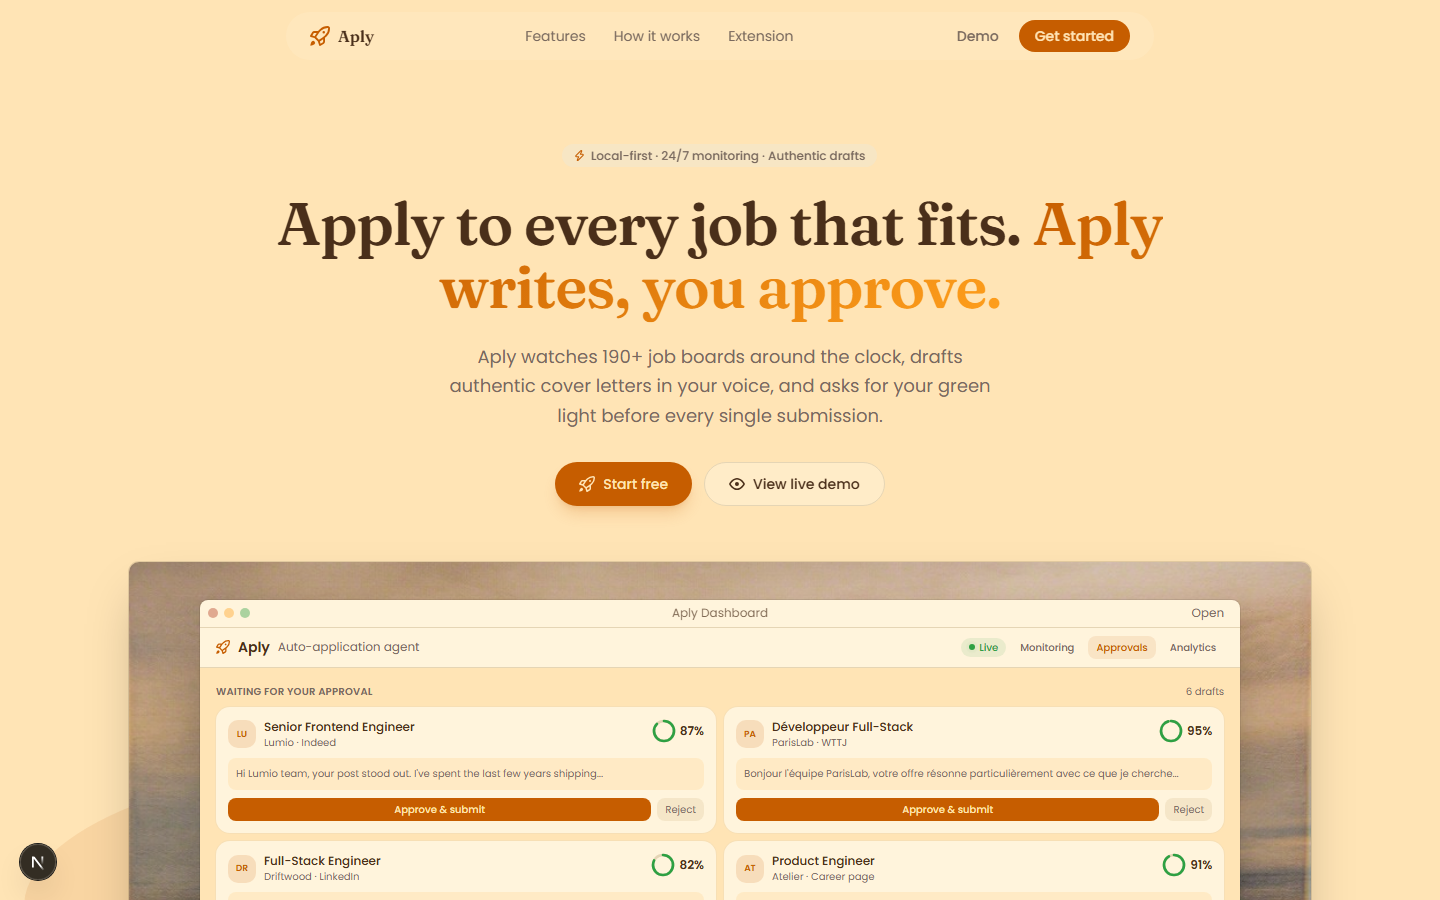
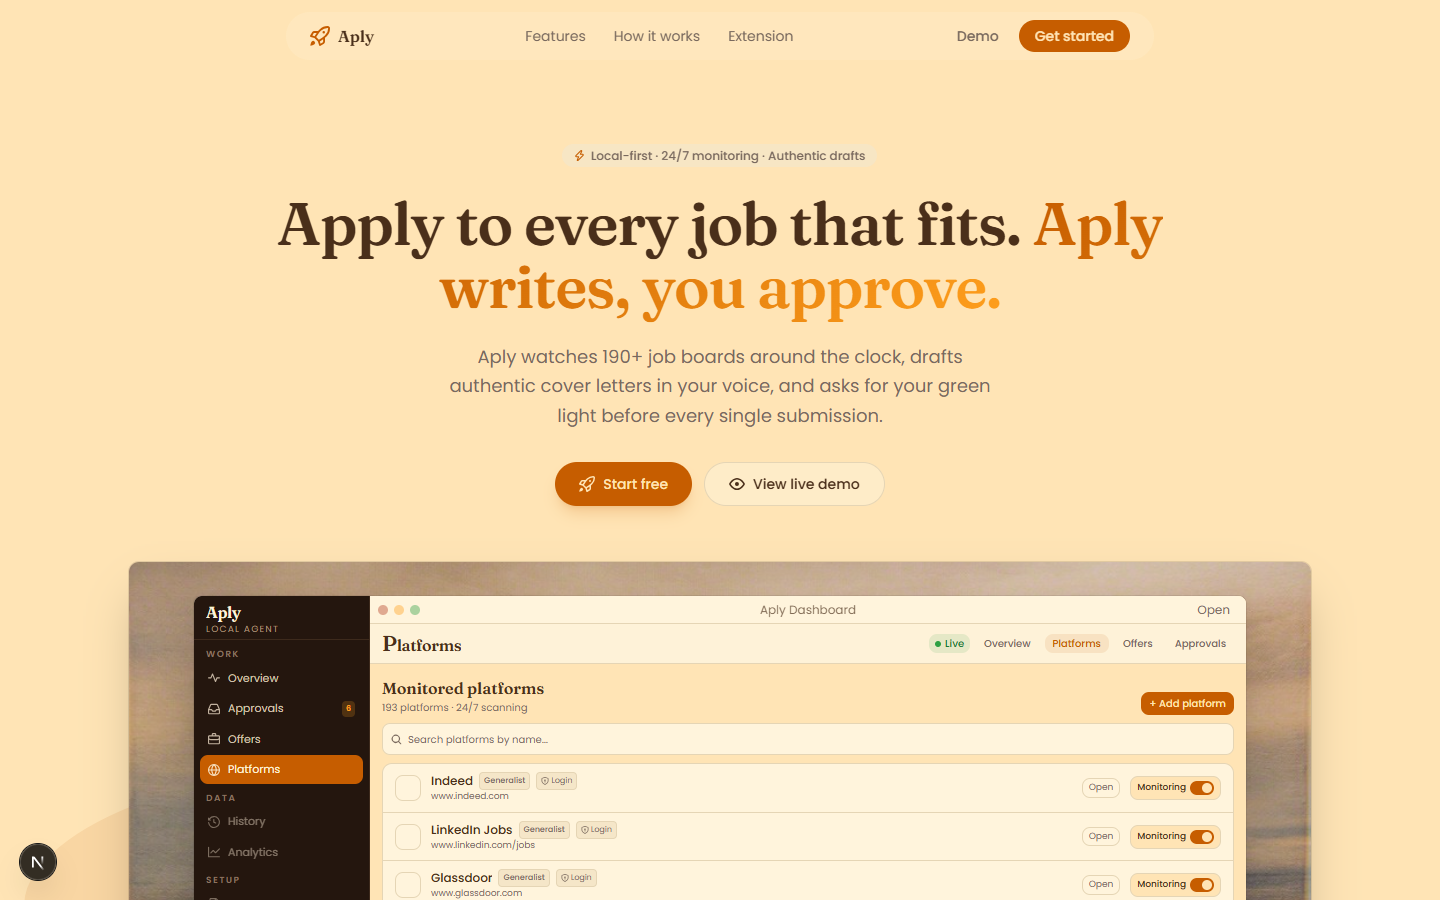
docs: refresh README showcase

Changed region(s): [[0.125, 0.6533, 0.875, 1.0]]

diff --git a/README.md b/README.md
@@ -1,93 +1,13 @@
-# Aply
+<p align="center">
+  <img src="docs/logo.svg" alt="Aply" width="176" />
+</p>
 
-**Local-first job-application agent.** Aply watches 190+ job boards around the clock, drafts cover letters in your voice, and asks for your green light before every submission.
+<p align="center">
+I felt tired of looking for jobs by myself, opening the same platforms every day, rewriting the same applications, and trying to stay motivated through the boring parts. So I am building Aply to spare my time, keep the search running in the background, and let me focus on the opportunities that actually deserve my attention.
+</p>
 
-![Landing](docs/screenshots/00-landing.png)
+![Landing page](docs/screenshots/00-landing.png)
 
-## Features
-
-- **24/7 monitoring** across job boards and company career pages
-- **Authentic drafts** grounded in your resume, with an anti-AI quality pipeline
-- **Human-in-the-loop** approvals before every submit
-- **Offers & platforms** browsers with search, filters, and source logos
-- **Resume vault** with PDF preview, text extraction, and skills chips
-- **Notifications** via Email / WhatsApp (Telegram & Discord coming soon)
-- **Local-first** — SQLite, your browser profile, your data
-
-## Screenshots
-
-### Overview
-
-Live monitoring, KPIs, and recently detected offers.
-
-![Overview](docs/screenshots/01-overview.png)
-
-### Platforms
-
-Enable or connect the boards you want scanned.
-
-![Platforms](docs/screenshots/02-platforms.png)
-
-### Offers
-
-Browse detected jobs, filter by status/source, and prepare applications.
-
-![Offers](docs/screenshots/03-offers.png)
-
-### Resume
-
-Upload a PDF/DOCX, preview the file, and keep extracted text for drafting.
-
-![Resume](docs/screenshots/04-resume.png)
-
-### Settings
-
-Profile, monitoring interval, writing quality, languages, and notification channels.
-
-![Settings](docs/screenshots/05-settings.png)
-
-### Approvals
-
-Review drafts, scores, and approve or reject before submit.
-
-![Approvals](docs/screenshots/06-approvals.png)
-
-## Stack
-
-- **Next.js** (App Router) + TypeScript + Tailwind + shadcn/ui
-- **Prisma** + SQLite
-- **Playwright** for browser automation
-- **react-pdf** for in-app resume preview
-
-## Quick start
-
-```bash
-pnpm install
-pnpm browser:install
-pnpm db:push
-pnpm dev
-```
-
-Open [http://localhost:3000](http://localhost:3000) (or the port configured in your scripts).
-
-Copy `.env.example` if present, or create a `.env` with at least:
-
-```env
-DATABASE_URL="file:./db/aply.db"
-```
-
-Add your LLM provider keys as required by `src/lib/llm`.
-
-## Project layout
-
-```
-src/app          # routes + API
-src/components   # dashboard UI (aply/*)
-src/lib          # scanning, LLM, identity, notify channels
-prisma           # schema + migrations
-docs/screenshots # README captures
-```
-
-## License
-
-Private / all rights reserved unless otherwise noted.
+| Platforms | Offers |
+| --- | --- |
+| ![Platforms page](docs/screenshots/02-platforms.png) | ![Offers page](docs/screenshots/03-offers.png) |